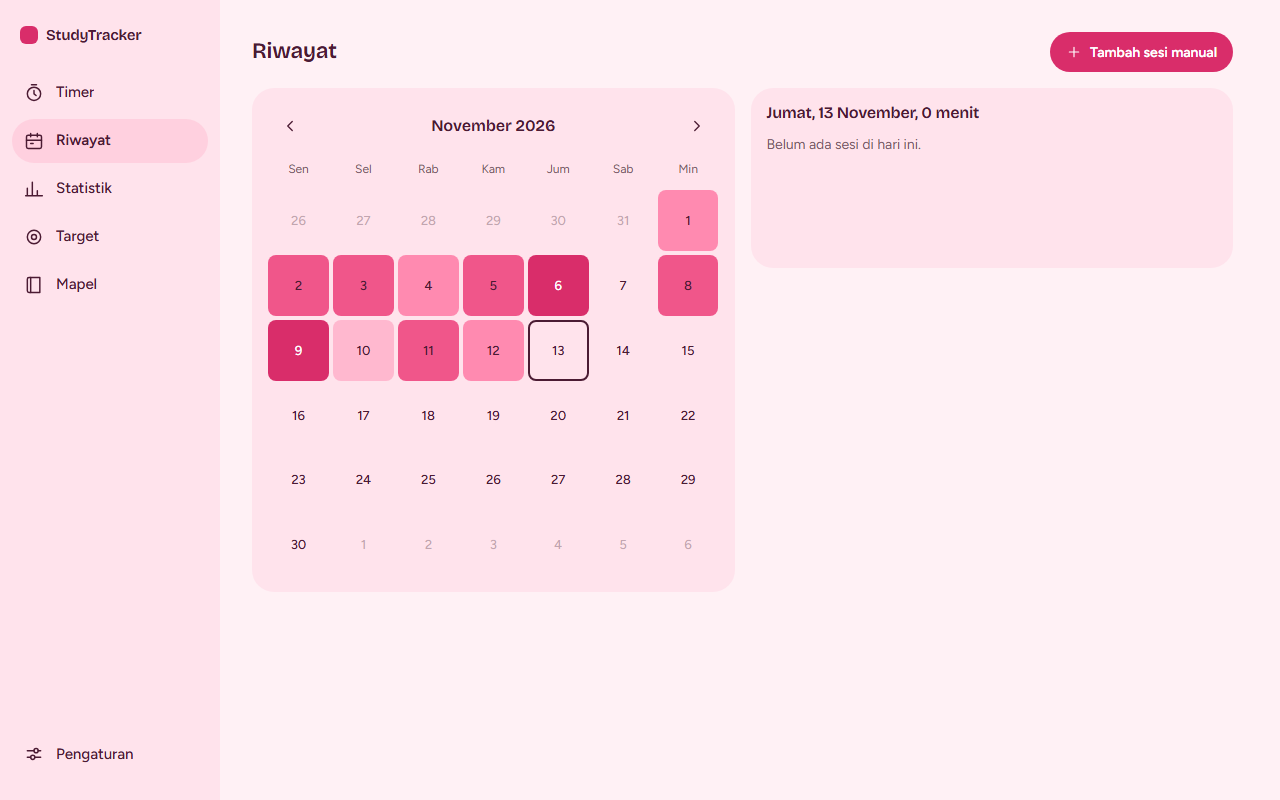
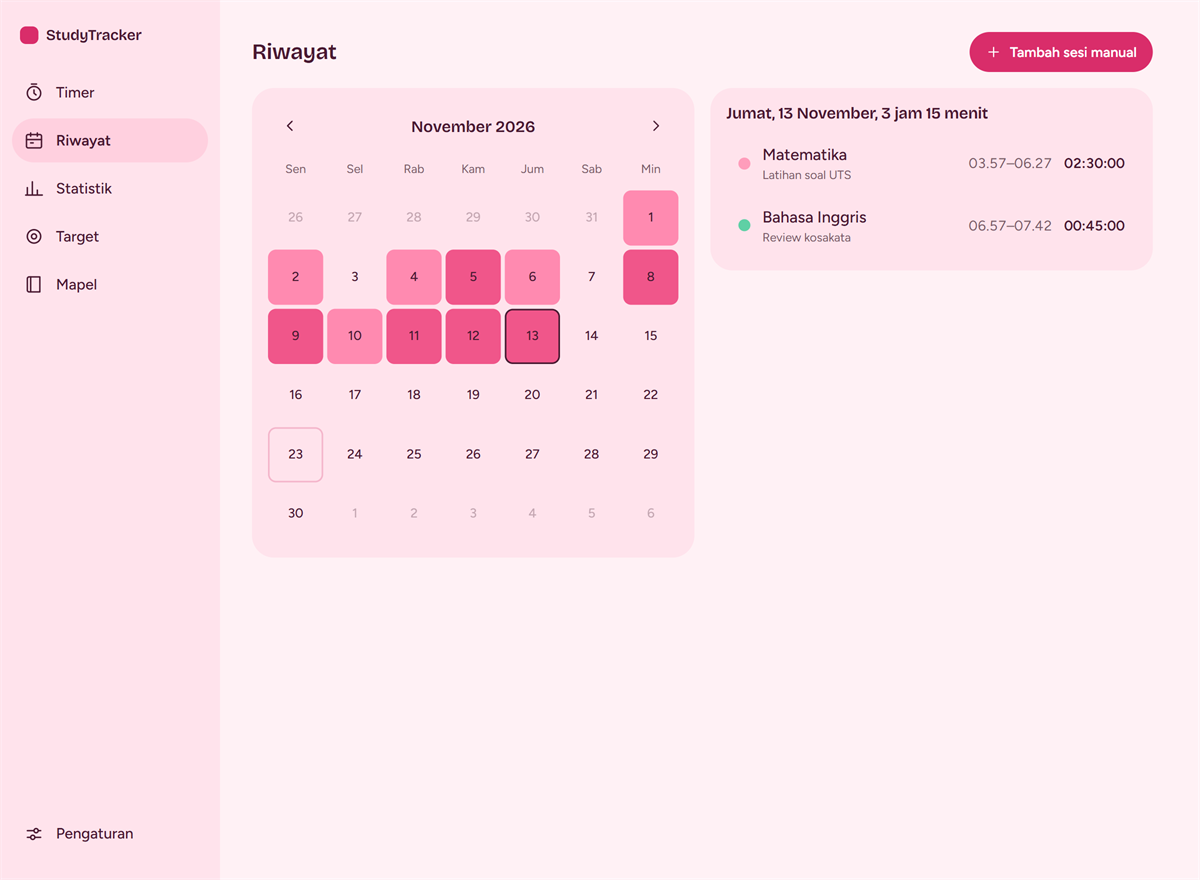
docs: README informatif dengan panduan unduh, tangkapan layar baru, dan lisensi MIT
- Tiga pilihan pemasangan dijelaskan dengan tabel: installer NSIS, MSI, dan
  paket portable, termasuk peringatan SmartScreen dan lokasi data.
- Tangkapan layar diperbarui untuk semua layar, potret 2x yang diturunkan
  supaya teks tetap tajam, plus tema gelap dan mini mode.
- Bagian fitur, pintasan keyboard, arsitektur, pengembangan, dan batasan
  ditulis ulang; klaim lama yang sudah tidak berlaku dihapus.
- Berkas LICENSE MIT ditambahkan karena README merujuknya.

diff --git a/README.md b/README.md
@@ -1,136 +1,179 @@
-# StudyTracker
+<p align="center">
+  <img src="docs/timer.png" alt="Layar Timer StudyTracker: timer berjalan untuk mata pelajaran Matematika, panel Hari ini di kanan" width="920">
+</p>
 
-Pelacak waktu belajar pribadi untuk desktop. Catat sesi per mata pelajaran, lihat riwayat
-dan statistik, pasang target harian/mingguan, dan pantau hitung mundur ujian. Semua data
-tersimpan lokal di komputer kamu, tanpa akun dan tanpa server.
+<h1 align="center">StudyTracker</h1>
 
-Dibangun dengan Tauri 2, Rust, dan Svelte 5. Spesifikasi produk ada di
-[`APP_SPEC.md`](APP_SPEC.md), spesifikasi tampilan ada di [`UI_UX_SPEC.md`](UI_UX_SPEC.md).
+<p align="center">
+  <b>Pelacak waktu belajar pribadi untuk desktop.</b><br>
+  Catat sesi per mata pelajaran, lihat riwayat dan statistik, kejar target harian, dan pantau hitung mundur ujian.<br>
+  Semua data tinggal di komputer kamu — tanpa akun, tanpa server, tanpa iklan.
+</p>
 
-![Layar Timer](docs/timer.png)
+<p align="center">
+  <a href="../../releases/latest"><img alt="Unduh rilis terbaru" src="https://img.shields.io/badge/unduh-rilis%20terbaru-d92d6a?style=flat-square"></a>
+  <img alt="Platform" src="https://img.shields.io/badge/platform-Windows%2010%20%2F%2011%20x64-4b1b33?style=flat-square">
+  <img alt="Lisensi" src="https://img.shields.io/badge/lisensi-MIT-17694b?style=flat-square">
+  <img alt="Tauri" src="https://img.shields.io/badge/Tauri-2-7a5b69?style=flat-square">
+  <img alt="Svelte" src="https://img.shields.io/badge/Svelte-5-7a5b69?style=flat-square">
+  <img alt="Rust" src="https://img.shields.io/badge/Rust-stable-7a5b69?style=flat-square">
+</p>
 
-## Isi
+---
 
-- **Timer** — satu tombol besar, chip mata pelajaran, tiga keadaan panel (Diam, Berjalan, Jeda).
-  Berhenti langsung menyimpan sesi, tanpa dialog.
-- **Riwayat** — kalender bulan dengan skala heatmap, daftar sesi per hari, tambah/ubah/hapus manual.
-- **Statistik** — rentang Hari/Minggu/Bulan, ringkasan satu kalimat, grafik batang bertumpuk per
-  mata pelajaran, rincian per mapel, heatmap 26 minggu, streak dan rekor.
-- **Target** — target harian dan mingguan, daftar D-day dengan hitung mundur.
-- **Mata pelajaran** — delapan warna, arsip untuk mapel yang sudah punya sesi.
-- **Pengaturan** — tema, skala antarmuka, awal hari belajar, deteksi idle, pintasan global,
-  perilaku jendela, ekspor/impor data.
-- **Integrasi desktop** — ikon tray yang mengikuti keadaan timer, menu tray, mini mode,
-  pintasan global, satu instance, mulai saat komputer menyala.
+## Fitur
+
+| | |
+| --- | --- |
+| **Timer satu tombol** | Mulai, jeda, lanjut, berhenti. Berhenti langsung menyimpan sesi — tanpa dialog, dengan tombol *Urungkan* selama 8 detik. Panel berganti warna sesuai keadaan: diam, berjalan, jeda. |
+| **Riwayat per hari** | Kalender bulan dengan skala intensitas seperti heatmap, daftar sesi per hari beserta rentang jam dan catatan. Sesi bisa ditambah, diubah, atau dihapus manual. |
+| **Statistik yang jujur** | Rentang hari/minggu/bulan, satu kalimat ringkasan, grafik batang bertumpuk per mata pelajaran, rincian per mapel, heatmap 26 minggu, streak, dan rekor pribadi. |
+| **Target & D-day** | Target harian dan mingguan dalam jam dan menit, plus daftar ujian dengan hitung mundur. Progres target muncul sebagai bar di panel "Hari ini". |
+| **Mata pelajaran** | Delapan warna pastel, arsip untuk mapel yang sudah punya riwayat, total waktu per mapel. |
+| **Integrasi desktop** | Ikon tray yang mengikuti keadaan timer, menu tray (mulai/jeda, berhenti, mini mode, keluar), mini mode 300×160 yang selalu bisa di atas, pintasan global `Ctrl+Alt+S`, satu instance, dan opsi mulai saat komputer menyala. |
+| **Data milikmu** | SQLite lokal, ekspor JSON/CSV, impor, dan cadangan sekali klik. Tidak ada telemetri. |
+
+## Unduh & pasang
+
+Semua berkas ada di halaman **[Rilis terbaru](../../releases/latest)**. Pilih salah satu:
+
+| Berkas | Untuk siapa | Catatan |
+| --- | --- | --- |
+| `StudyTracker_0.1.0_x64-setup.exe` | **Paling praktis** (disarankan) | Installer NSIS. Memasang untuk pengguna saat ini, membuat pintasan Start Menu, dan mendaftarkan entri *Uninstall*. |
+| `StudyTracker_0.1.0_x64_en-US.msi` | Pemasangan terkelola | MSI untuk dipasang lewat kebijakan organisasi, `msiexec`, atau alat penyebaran. |
+| `StudyTracker_0.1.0_x64_portable.zip` | Tanpa instalasi | Cukup ekstrak, lalu jalankan `studytracker.exe`. Tidak menyentuh Start Menu dan tidak punya uninstaller. |
+
+**Persyaratan:** Windows 10 atau 11, 64-bit. WebView2 Runtime sudah tersedia di Windows 11 dan sebagian besar Windows 10; kalau belum ada, installer otomatis memandu pemasangannya.
+
+<details>
+<summary>Cara memasang lewat terminal, atau memasang tanpa dialog</summary>
+
+```powershell
+# Installer NSIS, senyap (tanpa dialog)
+.\StudyTracker_0.1.0_x64-setup.exe /S
+
+# MSI
+msiexec /i .\StudyTracker_0.1.0_x64_en-US.msi /qn
+```
+
+</details>
+
+> **Peringatan Windows SmartScreen.** Aplikasi ini belum ditandatangani dengan sertifikat code signing berbayar, jadi saat pertama kali dijalankan Windows bisa menampilkan *"Windows protected your PC"*. Klik **More info → Run anyway**. Ini normal untuk aplikasi sumber terbuka tanpa sertifikat; kode sumbernya bisa kamu periksa sendiri di repo ini.
+
+### Setelah terpasang
+
+- Aplikasi terpasang di `%LOCALAPPDATA%\StudyTracker`. Pintasan ada di Start Menu.
+- **Data belajar** disimpan di `%APPDATA%\id.studytracker.desktop\studytracker.db`. Jalankan *Buat cadangan* di Pengaturan sebelum mengubah apa pun, atau salin foldernya saat aplikasi tertutup.
+- *Uninstall* lewat **Pengaturan → Aplikasi → StudyTracker**. Uninstaller tidak menghapus database; hapus folder di atas manual kalau ingin benar-benar bersih.
+- Menutup jendela berarti sembunyi ke tray. Keluar sepenuhnya lewat menu tray → **Keluar**.
 
 ## Tangkapan layar
 
 | Riwayat | Statistik |
-| --- | --- |
+| :---: | :---: |
 | ![Riwayat](docs/riwayat.png) | ![Statistik](docs/statistik.png) |
 
-## Prasyarat
+| Target & D-day | Mata pelajaran |
+| :---: | :---: |
+| ![Target](docs/target.png) | ![Mata pelajaran](docs/mapel.png) |
 
-- **Node.js 20+** dan npm (dipakai untuk membangun frontend).
-- **Rust stable** (`rustup`) — perlu untuk menjalankan aplikasi desktop.
-- **Windows**: Visual Studio Build Tools dengan beban kerja *Desktop development with C++*
-  dan WebView2 Runtime (sudah ada di Windows 11).
-- **Linux**: `libwebkit2gtk-4.1-dev`, `libappindicator3-dev`, `librsvg2-dev`, `build-essential`.
-- **macOS**: Xcode Command Line Tools.
+| Pengaturan | Tema gelap |
+| :---: | :---: |
+| ![Pengaturan](docs/pengaturan.png) | ![Tema gelap](docs/gelap.png) |
 
-## Menjalankan
+<p align="center">
+  <img src="docs/mini.png" alt="Mini mode StudyTracker" width="300"><br>
+  <sub>Mini mode: timer dalam jendela kecil, bisa dipin di atas jendela lain.</sub>
+</p>
 
-```bash
-# sekali saja: dependensi CLI Tauri di akar repo, lalu dependensi frontend
-npm install
-npm --prefix ui install
+## Pintasan keyboard
 
-# aplikasi desktop (hot reload frontend + rebuild Rust otomatis)
-npm run tauri dev
+| Tombol | Aksi |
+| --- | --- |
+| `Spasi` | Mulai / jeda timer |
+| `Ctrl` + `Enter` | Berhenti dan simpan sesi |
+| `Ctrl` + `1` … `6` | Pindah layar (Timer, Riwayat, Statistik, Target, Mapel, Pengaturan) |
+| `Esc` | Tutup dialog |
+| `Ctrl` + `Alt` + `S` | Mulai / jeda dari mana saja (pintasan global, bisa diubah) |
 
-# hanya jendela aplikasi untuk build terpaket
-npm run tauri build
+## Cara kerjanya
+
+Seluruh logika bisnis ada di `crates/core` dan diuji tanpa UI: model, timer, agregasi statistik, SQLite, ekspor/impor. `src-tauri` hanya menjembatani — menerima command, memanggil core, menyiarkan event `session-changed`. Frontend Svelte 5 tidak pernah menghitung durasi atau statistik sendiri; ia hanya menampilkan angka yang berdetak.
+
+```
+crates/core/        logika murni: model, timer, statistik, SQLite, ekspor/impor, cadangan
+src-tauri/          lapisan desktop: command, tray, deteksi idle, mini mode, pembaruan state
+  icons/            ikon aplikasi dan ikon tray (hasil scripts/gen-icons.mjs)
+ui/                 frontend Svelte 5
+  src/lib/          api, store, i18n, format, komponen
+  src/routes/       Timer, Riwayat, Statistik, Target, Mapel, Pengaturan, Mini
+  src/styles/       token desain dan CSS dasar
+scripts/            gen-icons.mjs — pembuat ikon PNG/ICO tanpa dependensi
+docs/               tangkapan layar untuk README
 ```
 
-Perintah pertama kali akan mengunduh crate Rust, jadi wajar makan beberapa menit.
-Hasil installer ada di `src-tauri/target/release/bundle/`.
+Beberapa keputusan yang disengaja: font di-*self-host* lewat `@fontsource` supaya aplikasi tetap rapi tanpa internet; grafik dan heatmap digambar sendiri dengan `div` + CSS agar tidak menambah pustaka; ikon SVG disalin sebagai path, bukan paket ikon; dan tidak ada emoji di antarmuka.
+
+## Pengembangan
+
+**Prasyarat:** Node.js 20+ dan npm, Rust *stable* (`rustup`), serta di Windows: Visual Studio Build Tools dengan beban kerja *Desktop development with C++* dan Windows SDK. Di Linux: `libwebkit2gtk-4.1-dev`, `libappindicator3-dev`, `librsvg2-dev`, `build-essential`. Di macOS: Xcode Command Line Tools.
+
+```bash
+npm install            # CLI Tauri
+npm --prefix ui install # dependensi frontend
+
+npm run tauri dev      # aplikasi desktop + hot reload
+npm run tauri build    # build produksi + installer
+```
+
+Hasil build: `target/release/bundle/nsis/` dan `target/release/bundle/msi/`.
 
 ### Hanya frontend
 
 ```bash
-npm run dev      # http://localhost:1420
+npm run dev   # http://localhost:1420
 ```
 
-Kalau dibuka di browser tanpa Tauri, frontend memakai backend tiruan berbasis
-`localStorage` (`ui/src/lib/devmock.ts`) supaya layar tetap bisa dilihat dan diklik. Mode ini
-khusus pratinjau desain: tidak ada file database, tidak ada tray, dan mini mode menampilkan
-pesan "Tidak tersedia di mode pratinjau".
+Dibuka di browser, frontend memakai backend tiruan berbasis `localStorage` (`ui/src/lib/devmock.ts`) supaya setiap layar bisa diklik tanpa Rust. Mode ini hanya untuk pratinjau desain: tidak ada database, tray, atau mini mode sungguhan.
 
 ### Pemeriksaan
 
 ```bash
-npm run check    # svelte-check, 0 error
-npm run test     # vitest (11 tes format)
-npm run build    # build produksi frontend
-cargo test -p studytracker-core   # tes logika core (butuh toolchain Rust)
+npm run check                     # svelte-check
+npm test                          # vitest (format angka, jam, durasi)
+npm run build                     # build produksi frontend
+cargo test -p studytracker-core   # 44 tes logika core
 cargo check --workspace --all-targets
 ```
 
-## Struktur repo
+CI menjalankan semua perintah di atas pada setiap push ke `main` dan setiap pull request.
 
+### Merilis versi baru
+
+1. Naikkan `version` di `src-tauri/tauri.conf.json` dan `ui/package.json`.
+2. Commit, lalu buat tag: `git tag v0.1.0 && git push origin v0.1.0`.
+3. Workflow **Rilis** membangun aplikasi di runner Windows, menerbitkan GitHub Release, dan melampirkan installer NSIS, MSI, portable ZIP, serta berkas `SHA256SUMS.txt`.
+
+Untuk memeriksa unduhan:
+
+```powershell
+Get-FileHash .\StudyTracker_0.1.0_x64-setup.exe -Algorithm SHA256
+# bandingkan dengan isi SHA256SUMS.txt di halaman rilis
 ```
-crates/core/        logika bisnis murni: model, timer, agregasi statistik, SQLite, ekspor/impor
-src-tauri/          lapisan desktop: command, tray, idle monitor, jendela mini, main
-  icons/            ikon aplikasi dan ikon tray (hasil scripts/gen-icons.mjs)
-ui/                 frontend Svelte 5
-  src/lib/          api, store, i18n, format, komponen
-  src/routes/       Timer, History, Stats, Targets, Subjects, Settings, Mini
-  src/styles/       token desain dan CSS dasar
-scripts/            gen-icons.mjs (pembuat ikon PNG/ICO tanpa dependensi)
-.github/workflows/  CI: frontend (check, test, build) dan Rust (test core, check workspace)
-```
 
-Aturan yang dipegang: **tidak ada logika bisnis di frontend atau di `src-tauri`**. Command
-Tauri hanya memanggil `studytracker-core`, lalu menyiarkan `session-changed`.
+## Yang belum ada
 
-## Penyimpangan dari spesifikasi
+Ditulis terbuka supaya tidak ada kejutan:
 
-Semua penyimpangan berikut disengaja dan alasannya ditulis di sini.
-
-| Penyimpangan | Alasan |
-| --- | --- |
-| Plugin `tauri-plugin-dialog` ditambahkan | Ekspor dan impor butuh dialog simpan/buka bawaan OS. Tanpa plugin ini pengguna harus mengetik path sendiri. |
-| Grafik batang dan heatmap digambar sendiri (div + CSS), tanpa pustaka grafik | Kebutuhannya kecil (batang bertumpuk, grid horizontal, tooltip). Menggambar sendiri menghindari dependensi baru dan menjaga bobot bundel. |
-| Ikon Lucide disalin sebagai path SVG di `ui/src/lib/icons.ts` | Spesifikasi melarang emoji sebagai ikon. Menyalin path membuat tidak perlu paket ikon tambahan. |
-| Font di-self-host lewat `@fontsource` | Aplikasi desktop harus jalan tanpa internet; tidak boleh memuat font dari CDN. |
-| Token `--on-heat` dan `--on-heat-strong` ditambahkan | Warna heatmap tetap pink di kedua tema, jadi teks di atasnya harus dipatok gelap/putih. Nilainya sama dengan `--plum` dan `--paper` tema terang — tidak ada hex baru, hanya token turunan supaya kontras sel heatmap tidak rusak saat tema gelap. |
-| Ikon PNG/ICO dibuat oleh `scripts/gen-icons.mjs` | Tidak menambah dependensi pengolah gambar. Jalankan ulang skrip ini setelah mengubah desain ikon. |
-| Deteksi tidur komputer belum diimplementasikan | Pengaturan "Hitung waktu saat komputer tidur" tersimpan, tetapi belum memengaruhi perhitungan. Lihat bagian batasan. |
-
-## Batasan yang masih terbuka
-
-Jujur, ini yang belum beres:
-
-1. **Kode Rust belum pernah dikompilasi di mesin ini.** Mesin penyusun tidak punya `cargo`
-   maupun `rustc`, jadi `crates/core` dan `src-tauri` ditulis mengikuti API Tauri 2 dan
-   SQLite (rusqlite) tanpa verifikasi kompilasi. Frontend sudah lolos `svelte-check`,
-   `vitest`, dan `build`. Langkah pertama di mesin lain: `cargo test` lalu `cargo tauri dev`.
-2. **Deteksi idle** memantau input keyboard/mouse Windows lalu memunculkan dialog "Sesi belum
-   selesai" dengan pilihan jam selesai, tetapi belum diuji di aplikasi sungguhan.
-3. **Hitung waktu saat komputer tidur**: belum ada. Sesi yang berjalan saat komputer tidur
-   akan menghitung waktu tidur sebagai waktu belajar, dan sakelar di Pengaturan belum tersambung.
-4. **Pintasan global** (`Ctrl+Alt+S` sebagai bawaan) didaftarkan lewat plugin; perilakunya
-   belum dicoba di OS sungguhan.
-5. **Notifikasi target tercapai** baru berupa toast di dalam aplikasi; notifikasi sistem belum
-   dipasang ke kejadian apa pun.
-6. **Kontras sel kalender heat-3** (`--heat-3` dengan teks `--plum`) sekitar 4,3:1, sedikit di
-   bawah target 4,5:1. Untuk mencapai 4,5:1 perlu menggelapkan `--heat-3` atau memakai teks
-   putih, dan keduanya mengubah tangga warna heatmap — perlu keputusan desain.
-7. **Input jam** memakai `<input type="time">` bawaan, jadi formatnya mengikuti locale OS
-   (bisa 09.00 atau 9:00 AM), sementara teks lain memakai format Indonesia.
-8. **`Cargo.lock` belum ada** karena belum pernah ada resolusi dependensi di mesin ini.
-   Commit file itu setelah build pertama supaya versi crate terkunci.
+- **Hitung waktu saat komputer tidur** belum tersambung — sakelarnya tersimpan, tetapi sesi tetap menghitung waktu tidur sebagai waktu belajar.
+- **Deteksi tidak aktif** hanya berjalan di Windows. Di Linux dan macOS fungsi itu mengembalikan nol, jadi dialog "Sesi belum selesai" tidak muncul sendiri.
+- **Installer resmi hanya untuk Windows x64.** Linux dan macOS bisa dibangun dari sumber, tetapi belum diuji dan belum punya paket.
+- **Input jam** memakai `<input type="time">` bawaan sistem, jadi formatnya mengikuti bahasa OS (misalnya `09.00` atau `9:00 AM`), sementara teks lain memakai format Indonesia.
 
 ## Lisensi
 
-MIT.
+[MIT](LICENSE). Pakai, ubah, dan sebarkan bebas dengan mencantumkan lisensinya.
+
+<p align="center">
+  <sub>Dibuat dengan Rust, Tauri 2, dan Svelte 5. Tidak ada data yang keluar dari komputermu.</sub>
+</p>
